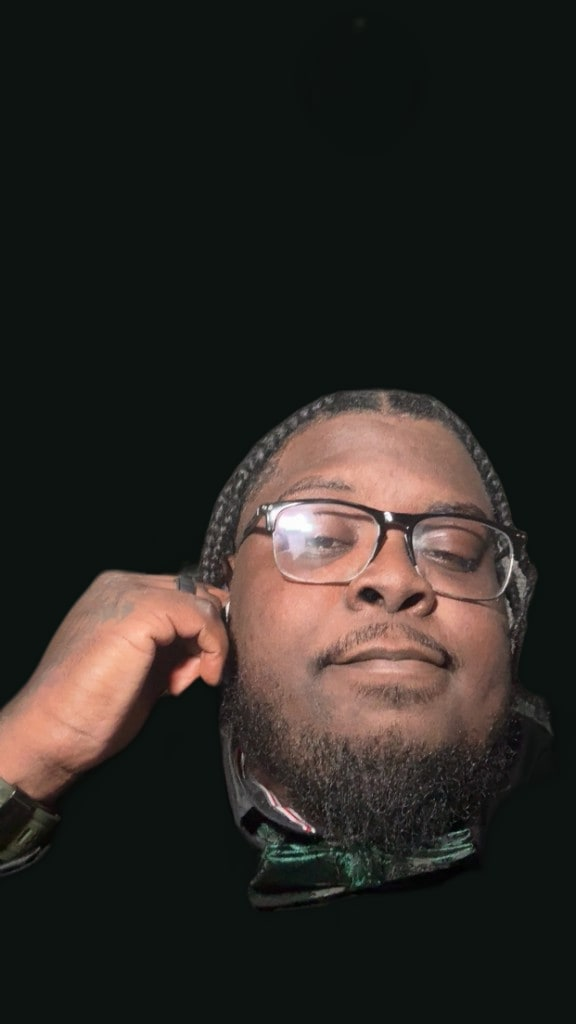
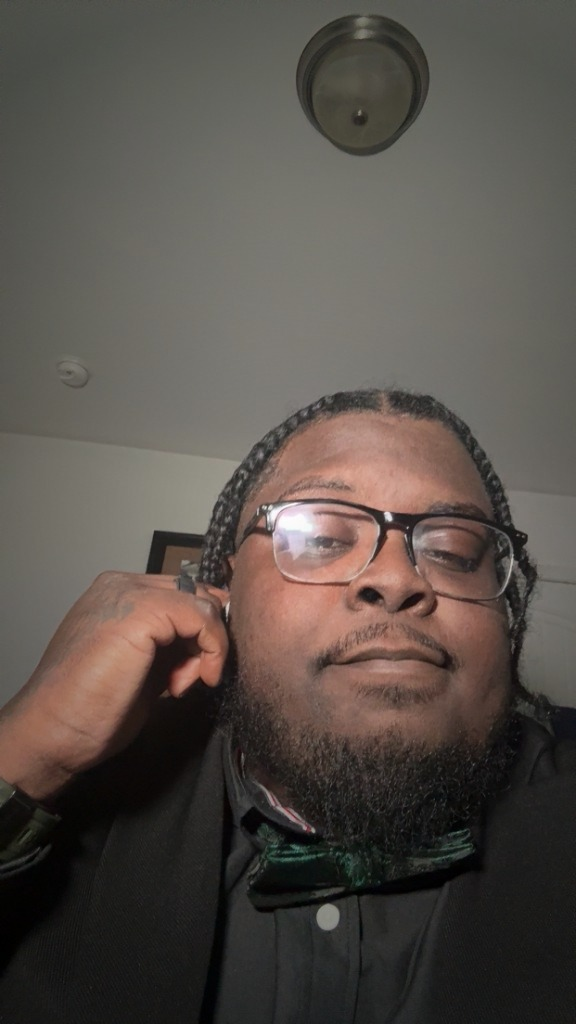
Use original portrait photo without background cutout.
Replace transparent PNG with the unmodified source photo, add a subtle edge vignette for dark-theme blending, and update Hero/ApexBanner styling for rounded corners and object-cover.

diff --git a/components/Hero.tsx b/components/Hero.tsx
@@ -147,13 +147,13 @@ export default function Hero() {
         >
           <div className="relative mx-auto aspect-[3/4] w-full max-w-[300px] sm:max-w-[320px] lg:max-w-[340px]">
             <div className="hero-portrait-glow" aria-hidden />
-            <div className="relative h-full overflow-hidden rounded-2xl border border-jade-border bg-transparent shadow-glow">
+            <div className="relative h-full overflow-hidden rounded-2xl border border-jade-border bg-[#0D1310] shadow-glow">
               <Image
                 src="/marcus-brown.webp"
                 alt="Marcus Brown — Senior Full-Stack Developer & AI Engineer"
                 width={576}
                 height={1024}
-                className="h-full w-full object-cover object-top"
+                className="h-full w-full rounded-2xl object-cover object-top"
                 priority
               />
               <div className="absolute inset-x-0 bottom-0 bg-gradient-to-t from-background via-background/90 to-transparent p-4 pt-16">

diff --git a/app/globals.css b/app/globals.css
@@ -617,7 +617,8 @@ body {
 .apex-portrait-image {
   width: 100%;
   height: 100%;
-  object-fit: fill;
+  object-fit: cover;
+  object-position: top center;
   display: block;
 }
 
